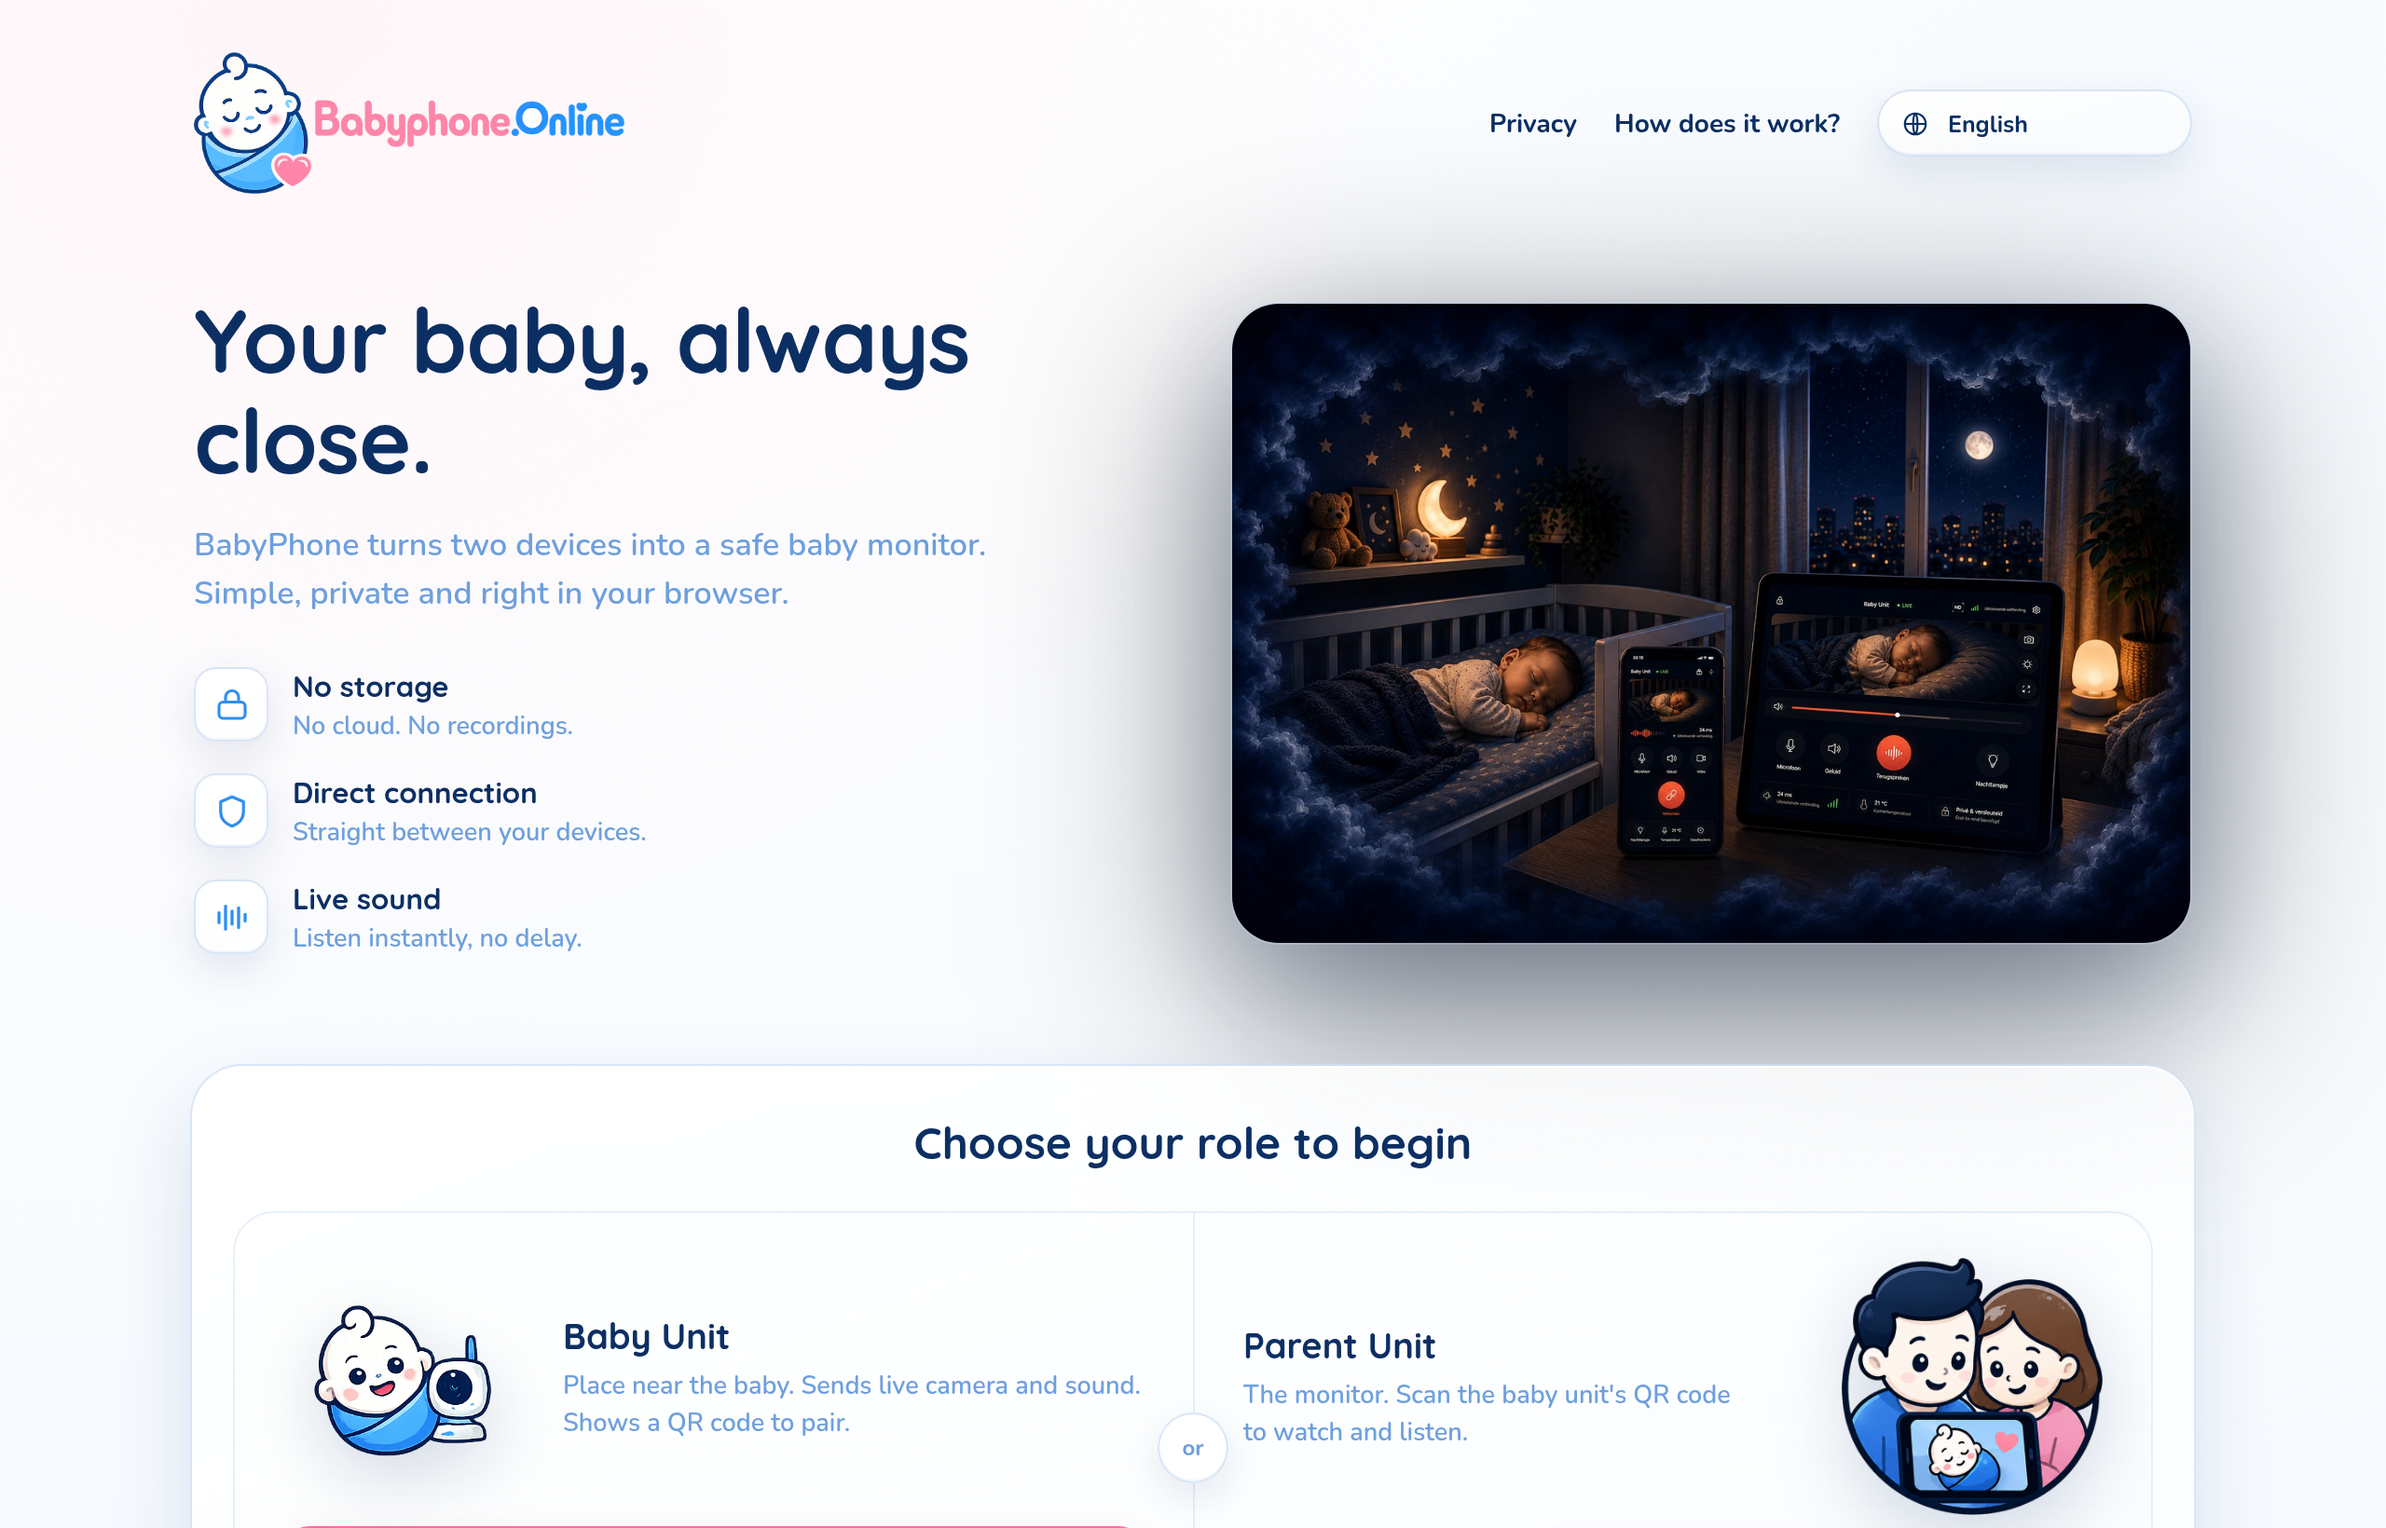
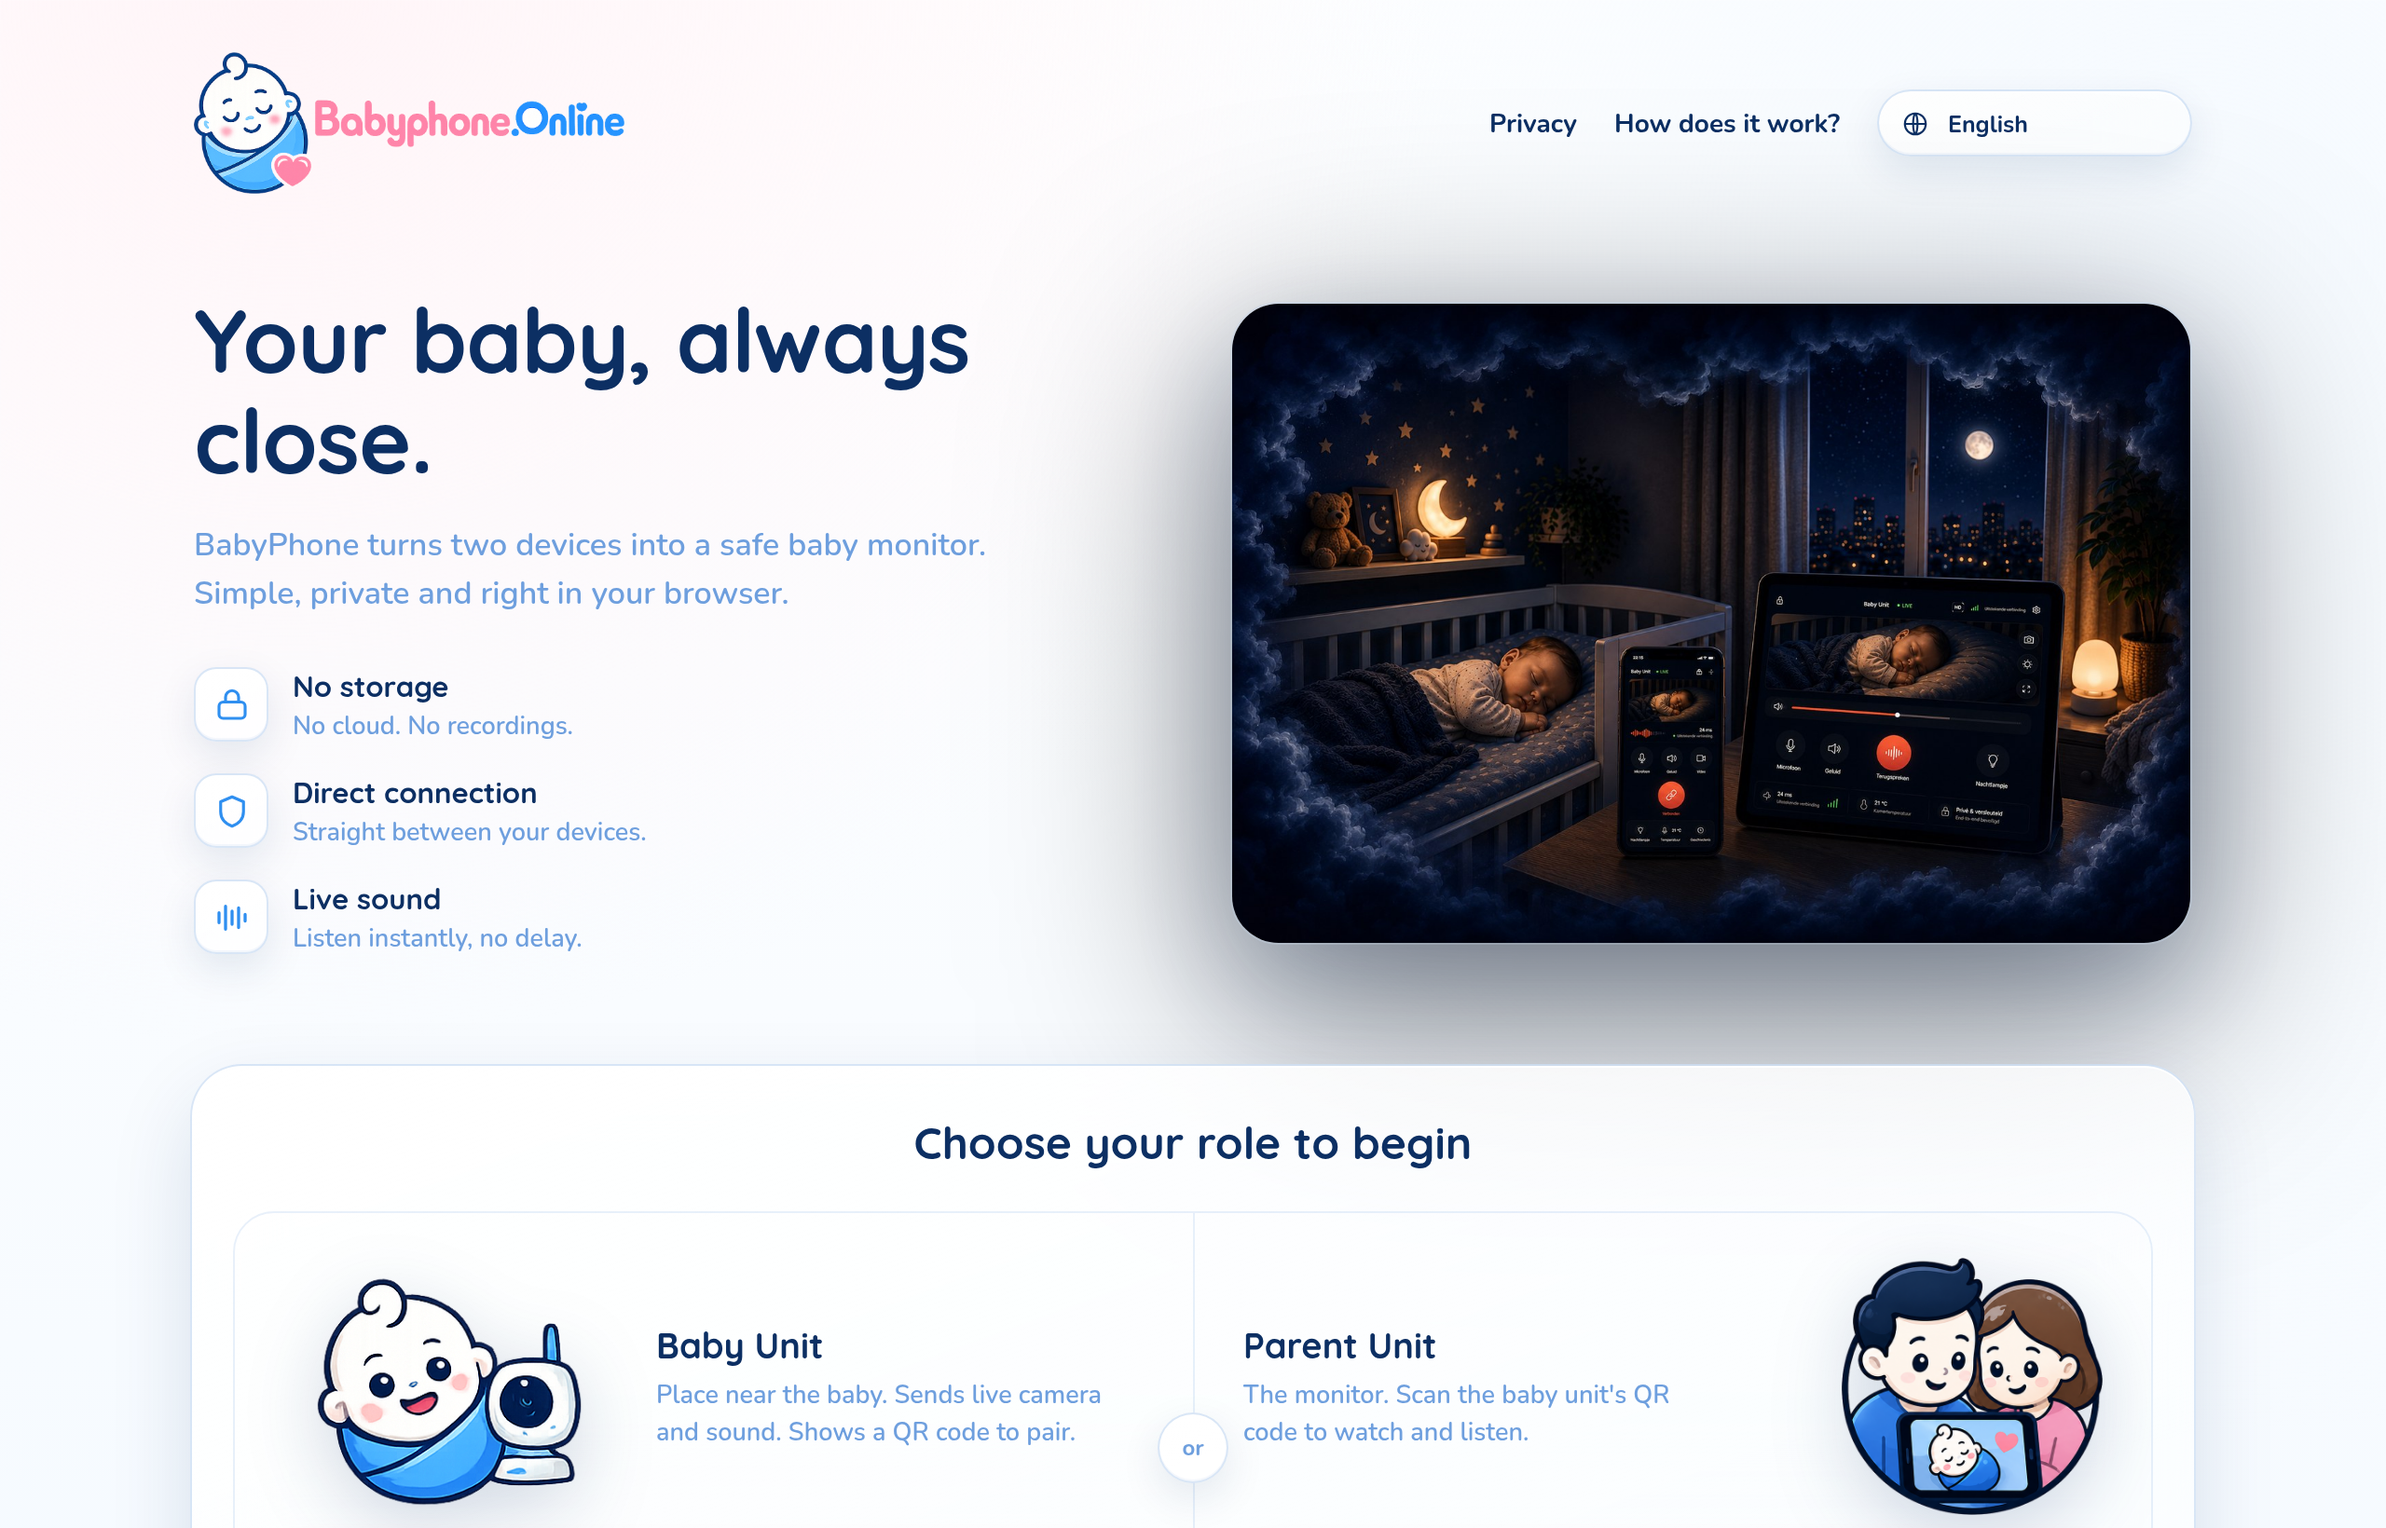
Match baby-unit illustration size to the parent-unit illustration
Size the baby-unit icon by height instead of width (138px desktop /
112px mobile, same as the parent-unit icon), and widen both role-card
illustration slots to 178px/138px so the wider baby artwork isn't
squeezed. Blog screenshots refreshed.

Claude-Session: https://claude.ai/code/session_01EiNyr4JS9APEZG2E4fpLHW

Changed region(s): [[0.125, 0.8396, 0.4688, 1.0], [0.5312, 0.9329, 0.625, 0.964]]

diff --git a/serverless/luna.css b/serverless/luna.css
@@ -1616,8 +1616,8 @@ body:not(.app-mode) .setup-wrap { width: 100%; max-width: none; margin: 0; }
 .lp-cell-top { display: flex; align-items: center; gap: 22px; min-height: 128px; }
 /* illustratie-wrappers: camera links (babyunit), apparaten rechts (ouderunit) */
 .lp-illus { flex: 0 0 auto; display: flex; align-items: center; justify-content: center; }
-.lp-illus.baby { flex-basis: 128px; }
-.lp-illus.parent { flex-basis: 168px; }
+.lp-illus.baby { flex-basis: 178px; }
+.lp-illus.parent { flex-basis: 178px; }
 .lp-cell-top.rev .lp-cell-txt { flex: 1; }
 
 /* pure-CSS productillustraties (overgenomen uit het referentie-ontwerp) */
@@ -1705,9 +1705,8 @@ body:not(.app-mode) .setup-wrap { width: 100%; max-width: none; margin: 0; }
 
 /* mobiel: illustraties iets kleiner zodat ze de tekst niet verdringen */
 @media (max-width: 719px) {
-  .lp-illus.baby { flex-basis: 104px; }
-  .lp-illus.parent { flex-basis: 132px; }
-  .device-outline { transform: scale(0.85); transform-origin: center right; }
+  .lp-illus.baby { flex-basis: 138px; }
+  .lp-illus.parent { flex-basis: 138px; }
 }
 
 /* trust */
@@ -2055,9 +2054,10 @@ a:focus-visible, button:focus-visible, input:focus-visible, select:focus-visible
   .lp-parent-img { height: 112px; }
 }
 
-/* baby-unit illustratie: geüploade icon i.p.v. het oude camera-mark (landscape formaat) */
-.lp-baby-img { width: 118px; height: auto; max-width: 100%; display: block;
+/* baby-unit illustratie: geüploade icon i.p.v. het oude camera-mark (landscape formaat) —
+   zelfde hoogte als de ouder-unit illustratie, zodat beide even groot ogen */
+.lp-baby-img { height: 138px; width: auto; max-width: 100%; display: block;
   filter: drop-shadow(0 12px 20px rgba(12, 47, 99, 0.18)); }
 @media (max-width: 719px) {
-  .lp-baby-img { width: 100px; }
+  .lp-baby-img { height: 112px; }
 }
